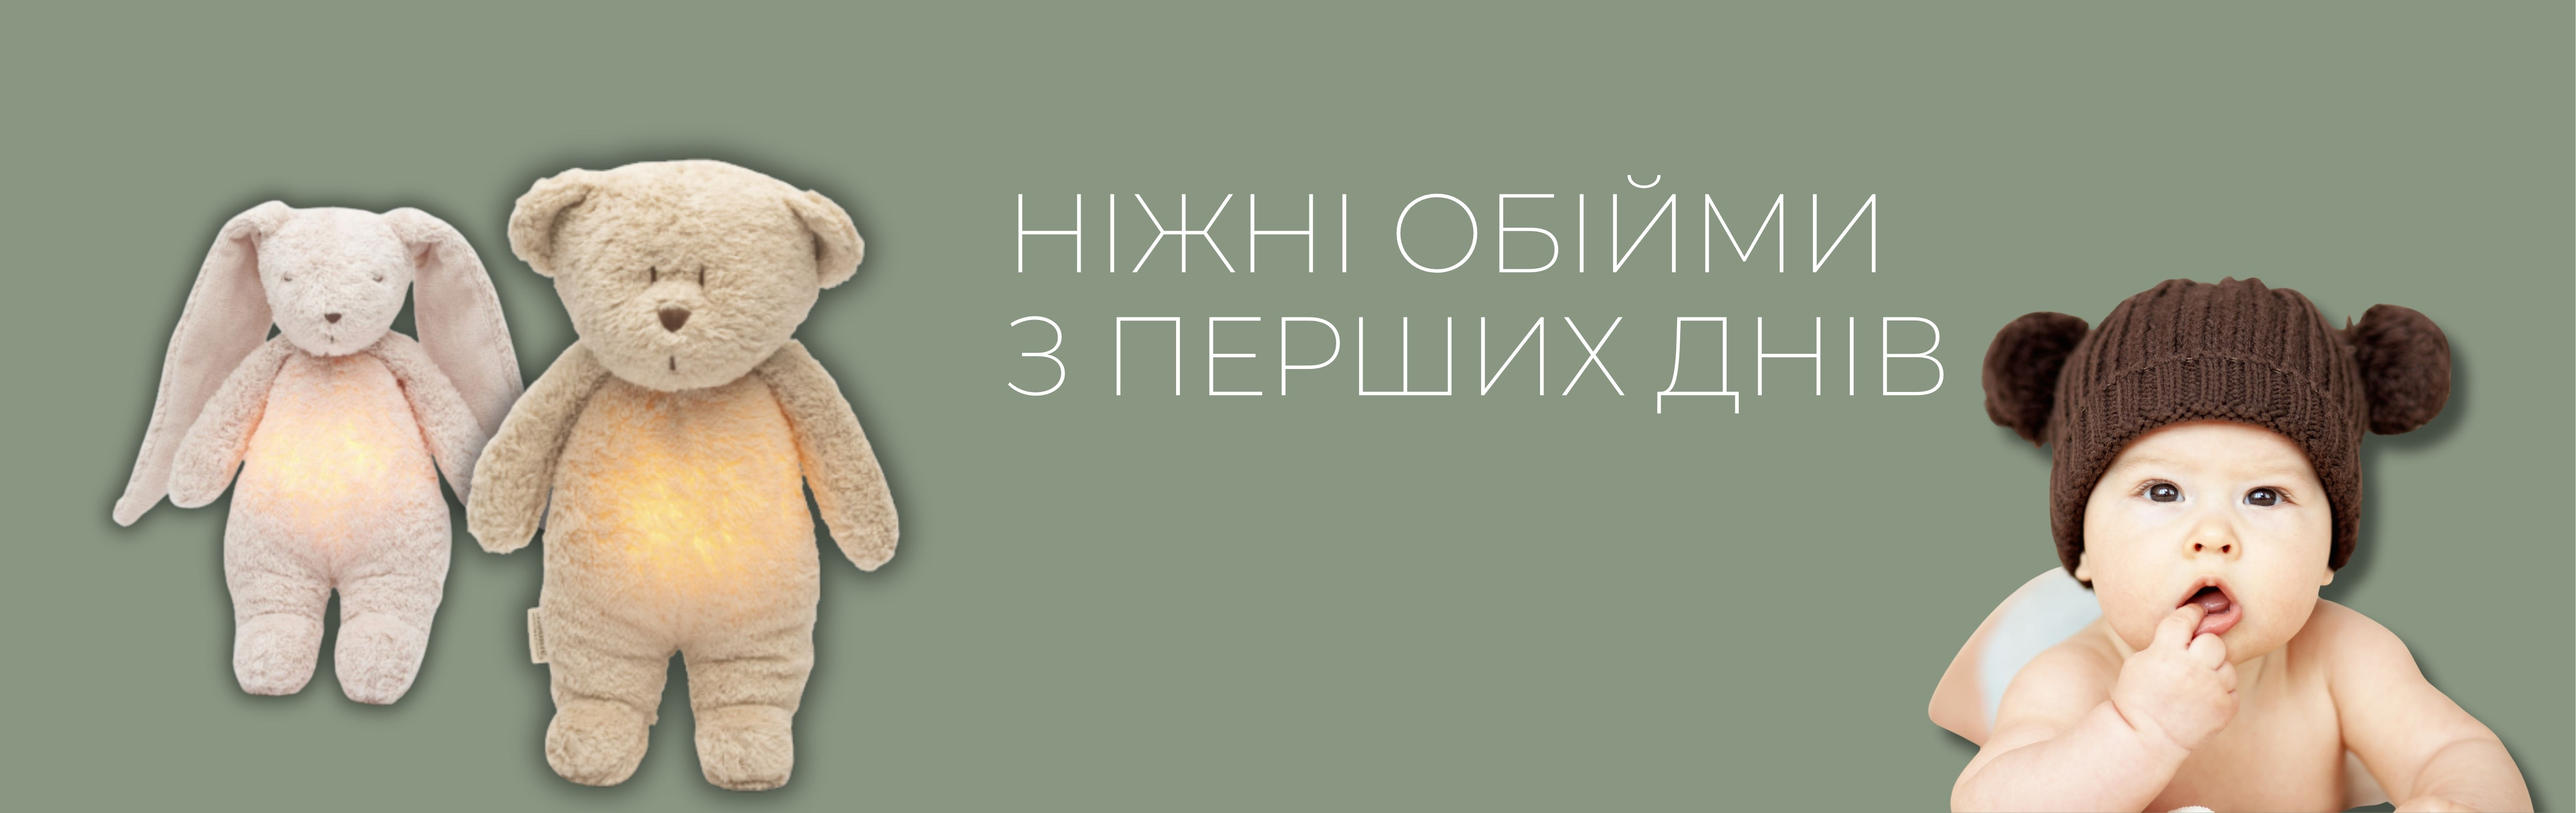
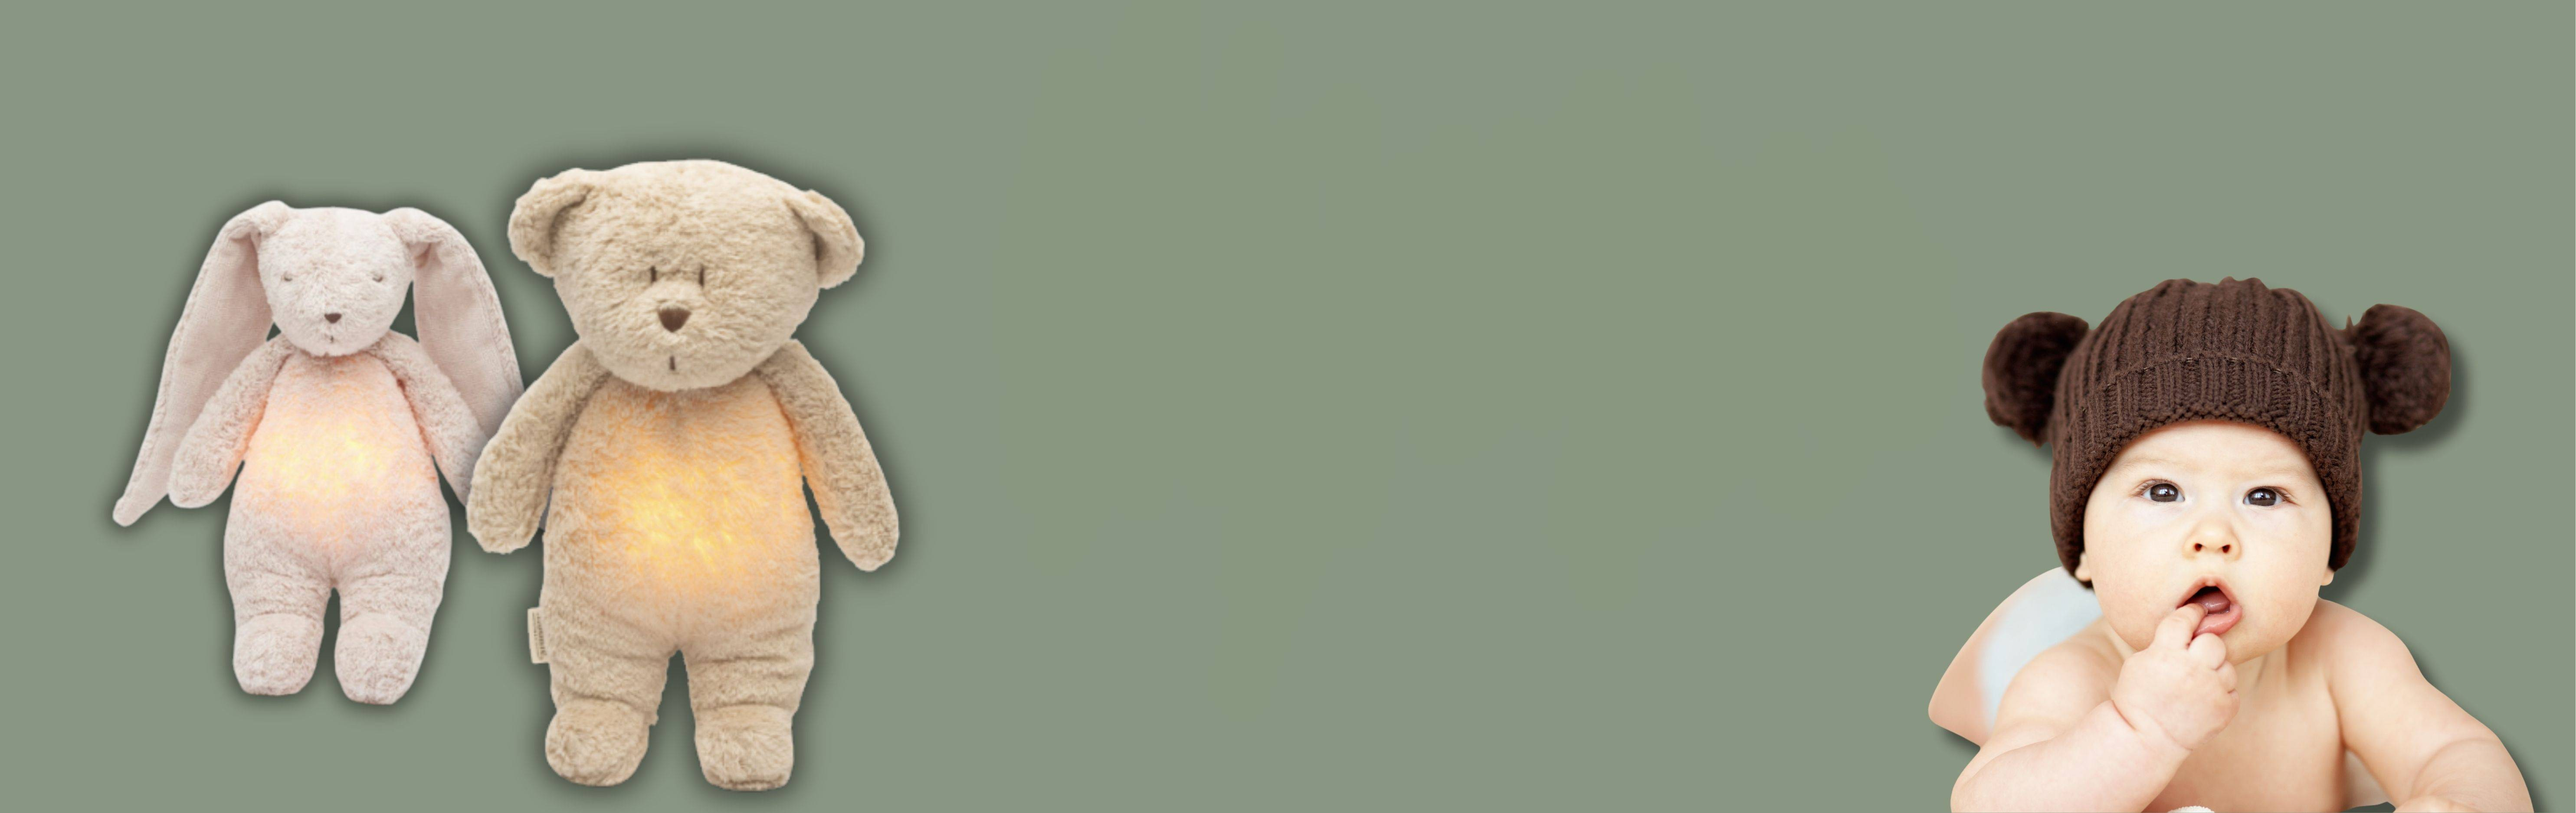
apdata

diff --git a/css/style.css b/css/style.css
@@ -90,15 +90,34 @@ width: 210px;
   background-size: cover;
   background-repeat: no-repeat;
   background-position: center;
+  padding: 40px 0;
+}
+
+.hero .container{
+  height: 100%;
+  display: flex;
+  flex-direction: column;
+  align-items: center;
+  justify-content: center;
+}
+
+.hero__title{
+  color: white;
+  text-align: center;
+  font-size: 35px;
+  margin-bottom: 50px;
+letter-spacing: 3px;
+}
+
+@media screen and (min-width: 768px){
+  .hero__title{
+  font-size: 60px;
+}
 }
 
 .hero__btn{
  background-color: #c99585; 
  border: 1px solid black;
- padding: 10px;
- position: absolute;
- top:400px;
- left:800px;
  border-radius: 20px;
 }
 
@@ -129,7 +148,8 @@ font-size: 40px;
 /* CATALOG */
 
 .store{
-  margin-top: 30px;
+  padding-top: 50px;
+  padding-bottom: 50px;
 }
 
 .store__list{
@@ -190,17 +210,32 @@ gap: 30px;
 
 footer {
   background-color: #899682;
-  padding: 100px;
-  margin-top: 100px;
-  width: 100%;
+  padding: 15px 0px;
 }
 
-.footer-container {
-  height: 114px;
+.footer .container {
   display: flex;
+}
+
+.footer__list{
+  display: flex;
+  flex-direction: column;
+  gap: 50px;
+  align-items: center;
+  justify-content: center;
   justify-content: space-between;
 }
-.footer__work {
+
+.footer__item{
+    color: #e8dece;
+  font-size: 20px;
+  text-align: left;
+  display: flex;
+  flex-direction: column;
+  gap: 15px;
+}
+
+/* .footer__work {
   color: white;
   font-size: 30px;
   margin-left: 50px;
@@ -210,14 +245,16 @@ footer {
   list-style: none;
 }
 .footer__span {
-  color: #e8dece;
-  font-size: 40px;
-  text-align: left;
+
+} */
+
+.logo3 {
+  width: 100px;
+  height: 100px;
 }
 
 
-
-.banner {
+/* .banner {
   display: block;
 }
 
@@ -228,13 +265,6 @@ footer {
   margin-right: 60px;
 }
 
-.logo3 {
-  width: 200px;
-  height: 200px;
-  margin-right: 200px;
-  margin-top: -30px;
-}
-
 .footer__right {
   color: #e8dece;
   font-size: 40px;
@@ -243,15 +273,14 @@ footer {
   position: relative;
   top: -10;
   list-style: none;
-}
+} */
 
 .instagram {
-  width: 200px;
-  height: 200px;
-  padding-right: 10px;
-  margin-top: -30px;
+  width: 100px;
+  height: 100px;
 }
-.call {
+
+/* .call {
   width: 50px;
   height: 50px;
   display: inline;
@@ -264,9 +293,96 @@ footer {
   margin-right: 1000px;
   display: flex;
   justify-content: space-between;
+} */
+
+
+@media screen and (min-width: 768px){
+  .footer__list{
+  flex-direction: row;
+}
+
+.instagram {
+  width: 70px;
+  height: 70px;
+}
+
+}
+
+.backdrop {
+  position: fixed;
+  top: 0;
+  left: 0;
+  width: 100%;
+  height: 100%;
+  background-color: rgba(30, 43, 31, 0.5); 
+  opacity: 0;
+  pointer-events: none;
+  transition: opacity 0.3s ease;
+  z-index: 10;
 }
 
 
-@media screen and (min-width: 1200px){
-  
+.pay {
+  position: fixed;
+  top: 50%;
+  left: 50%;
+  transform: translate(-50%, -50%) scale(0.9);
+  background-color: #fdfbf7;
+  padding: 30px;
+  border-radius: 12px;
+  box-shadow: 0 10px 30px rgba(0, 0, 0, 0.15);
+  width: 90%;
+  max-width: 400px;
+  opacity: 0;
+  pointer-events: none;
+  transition: all 0.3s ease;
+  z-index: 11;
+}
+
+.backdrop.is-open,
+.pay.is-open {
+  opacity: 1;
+  pointer-events: all;
+}
+
+.pay.is-open {
+  transform: translate(-50%, -50%) scale(1);
+}
+
+.pay__form {
+  display: flex;
+  flex-direction: column;
+  gap: 20px;
+}
+
+.pay__label {
+  display: flex;
+  flex-direction: column;
+  font-size: 14px;
+  color: #557057;
+  font-weight: 600;
+}
+
+.pay__input {
+  margin-top: 8px;
+  padding: 12px;
+  border: 1px solid #d3e0d1;
+  border-radius: 6px;
+  background-color: #fff;
+  font-size: 16px;
+  color: #2c3e2d;
+  outline: none;
+  transition: border-color 0.3s;
+}
+
+.pay__input:focus {
+  border-color: #8fb38d; 
+  box-shadow: 0 0 5px rgba(143, 179, 141, 0.3);
+}
+
+.pay__form__btn{
+  display: flex;
+  align-items: center;
+  justify-content: center;
+  padding: 20px 10px;
 }

diff --git a/index.html b/index.html
@@ -20,19 +20,19 @@
     <header>
       <div class="container">
         <div class="logo2">
-            <img src="img/logo.JPG" />
-          </div>
+          <img src="img/logo.JPG" />
+        </div>
         <nav class="nav">
           <a href="" class="nav__item">Про нас</a>
-          <a href="" class="nav__item">Оплата і доставка</a>
+          <button id="pay-btn" href="" class="nav__item">Оплата і доставка</button>
           <a href="" class="nav__item">Контакти</a>
         </nav>
-        
       </div>
     </header>
     <main>
       <section class="hero">
         <div class="container">
+          <h1 class="hero__title">Ніжних обіймів <br />з перших днів</h1>
           <button class="hero__btn">
             <a href="" class="hero__btn__link">Дізнатися більше</a>
           </button>
@@ -57,10 +57,7 @@
 
             <li class="store__item">
               <img class="store__item__img" src="img/forbaby.png" />
-              <a
-                class="store__item__link"
-                href=""
-              >
+              <a class="store__item__link" href="">
                 <button class="store__item__link__btn">Для малюків</button>
               </a>
             </li>
@@ -107,25 +104,53 @@
       </section>
     </main>
     <footer>
-      <section class="footer-container">
-        <li class="footer__work">
-          <p>Графік роботи:</p>
-          <p>Пн-Нд 09.00-19.00</p>
-          <p><span class="footer__span">Телефон:096-12-19-444</span></p>
-        </li>
-        <a
-          href="https://www.instagram.com/splusha.com.ua/?igsh=NTRocW50Mmo0c21o&utm_source=qr#"
-          target="_blank"
-        >
-          <img class="logo3" src="img/logo2.png" />
-        </a>
-        <li class="footer__right">
-          <nav>Бренди</nav>
-          <nav>Акції</nav>
-          <nav>Повернення та обмін</nav>
-        </li>
-        <img class="instagram" src="img/instagram.png" />
-      </section>
+      <div class="container">
+        <ul class="footer__list">
+          <li class="footer__item">
+            <p>Графік роботи:</p>
+            <p>Пн-Нд 09.00-19.00</p>
+            <p><span class="footer__span">Телефон:096-12-19-444</span></p>
+          </li>
+          <li class="footer__item">
+            <a
+              href="https://www.instagram.com/splusha.com.ua/?igsh=NTRocW50Mmo0c21o&utm_source=qr#"
+              target="_blank"
+            >
+              <img class="logo3" src="img/logo2.png" />
+            </a>
+          </li>
+          <li class="footer__item">
+            <nav>Бренди</nav>
+            <nav>Акції</nav>
+            <nav>Повернення та обмін</nav>
+          </li>
+          <li class="footer__item">
+            <img class="instagram" src="img/instagram.png" />
+          </li>
+        </ul>
+      </div>
     </footer>
+
+    <div class="backdrop"></div>
+    <div class="pay">
+      <form class="pay__form" action="">
+        <label class="pay__label" for="">
+          Ваше ім'я
+          <input class="pay__input" type="text">
+        </label>
+        <label class="pay__label" for="">
+          Ваше прізвище
+          <input class="pay__input" type="text">
+        </label>
+        <label class="pay__label" for="">
+          Ваш номер телефону
+          <input class="pay__input" type="text">
+        </label>
+
+        <button class="store__item__link__btn pay__form__btn">Відправити</button>
+      </form>
+    </div>
+
+    <script src="./js/script.js"></script>
   </body>
 </html>

diff --git a/js/script.js b/js/script.js
@@ -1,0 +1,17 @@
+document.addEventListener('DOMContentLoaded', () => {
+  // Знаходимо потрібні елементи
+  const payBtn = document.getElementById('pay-btn');
+  const backdrop = document.querySelector('.backdrop');
+  const payModal = document.querySelector('.pay');
+
+  payBtn.addEventListener('click', (event) => {
+    event.preventDefault();
+    backdrop.classList.add('is-open');
+    payModal.classList.add('is-open');
+  });
+
+  backdrop.addEventListener('click', () => {
+    backdrop.classList.remove('is-open');
+    payModal.classList.remove('is-open');
+  });
+});
